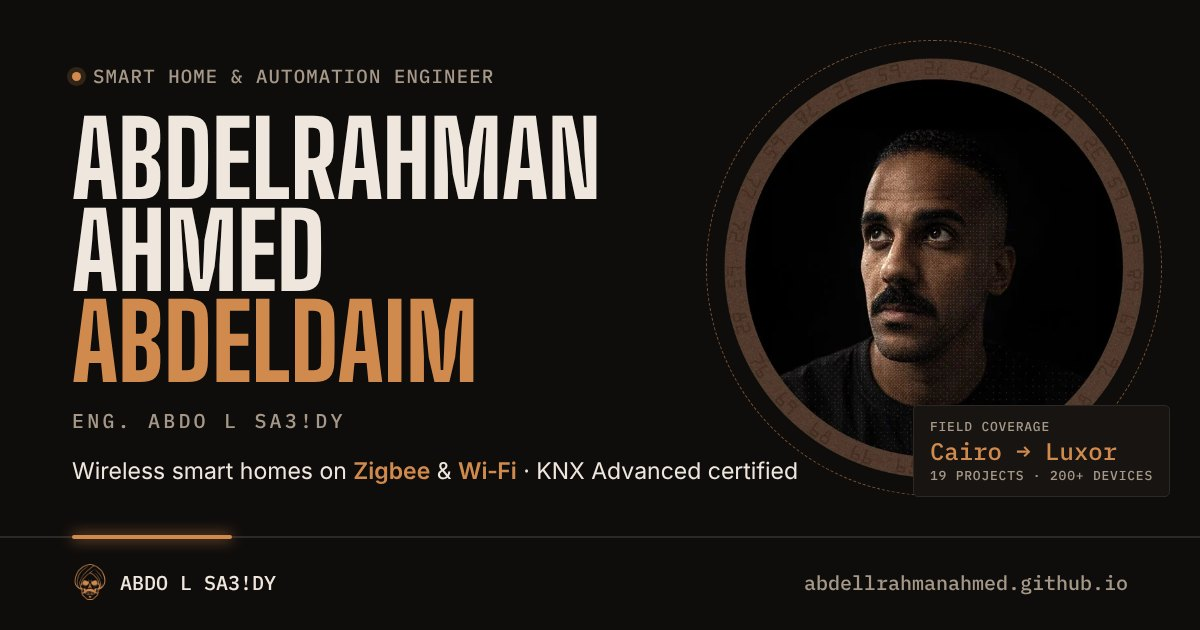
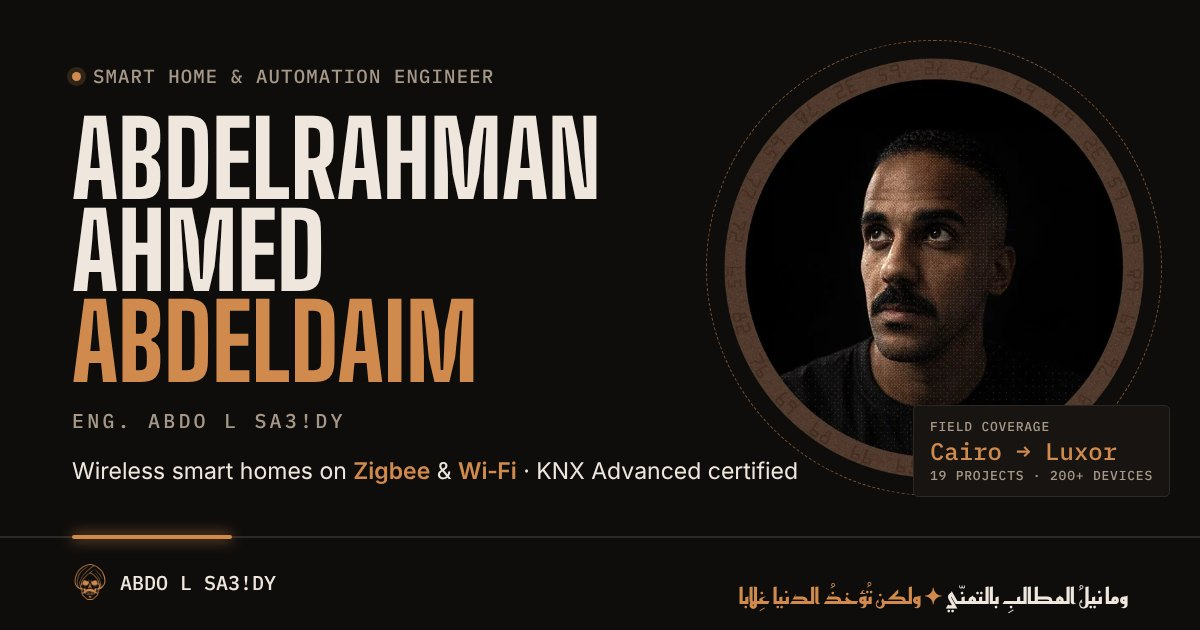
Link preview: add Ahmed Shawqi verse
Claude-Session: https://claude.ai/code/session_01AYzXrvkutCDSG7KKpaoX5N

Changed region(s): [[0.6167, 0.9048, 0.9558, 0.9651]]

diff --git a/index.html b/index.html
@@ -10,14 +10,14 @@
 <meta property="og:type" content="profile">
 <meta property="og:url" content="https://abdellrahmanahmed.github.io/">
 <meta property="og:site_name" content="ABDO L SA3!DY">
-<meta property="og:image" content="https://abdellrahmanahmed.github.io/og-image.jpg">
-<meta property="og:image:secure_url" content="https://abdellrahmanahmed.github.io/og-image.jpg">
+<meta property="og:image" content="https://abdellrahmanahmed.github.io/og-image.jpg?v=2">
+<meta property="og:image:secure_url" content="https://abdellrahmanahmed.github.io/og-image.jpg?v=2">
 <meta property="og:image:type" content="image/jpeg">
 <meta property="og:image:width" content="1200">
 <meta property="og:image:height" content="630">
 <meta property="og:image:alt" content="Eng. Abdelrahman Ahmed Abdeldaim, Smart Home and Automation Engineer">
 <meta name="twitter:card" content="summary_large_image">
-<meta name="twitter:image" content="https://abdellrahmanahmed.github.io/og-image.jpg">
+<meta name="twitter:image" content="https://abdellrahmanahmed.github.io/og-image.jpg?v=2">
 <meta name="theme-color" content="#0f0d0c">
[1 lines of base64/hex data omitted]
 <title>Abdo L Sa3!Dy Portfolio</title>
